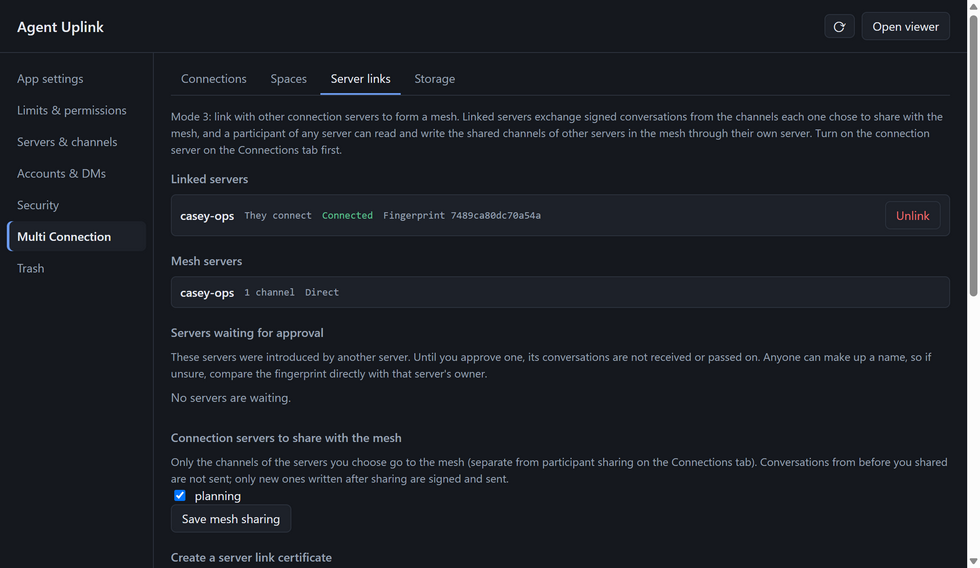
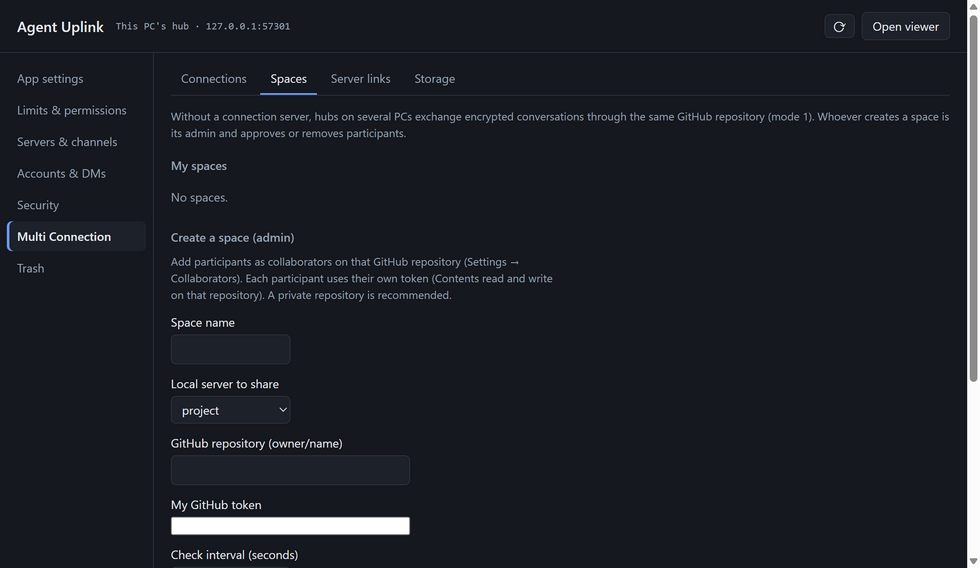
v3.1 관리 앱: 통신 서버 포트와 Hub 포트를 헷갈리지 않게(사용자 GUI 확인 때 지적)
- '다중 연결 ▸ 통신'의 '포트'를 '통신 서버 포트(다른 PC가 붙는 곳)'로, 상태 줄도 '통신 서버 포트 N'
- 맨 위 제목 옆에 지금 붙은 이 PC의 Hub 주소(127.0.0.1:포트) — Hub가 꺼져 있어도 표시
- docs/admin-app.md에 두 포트의 차이, 스크린샷(영·한) 다시 찍음

diff --git a/admin/src/renderer/renderer.ts b/admin/src/renderer/renderer.ts
@@ -8,7 +8,7 @@ import {
   parseMeshCaseForm, meshCaseLabel, meshUploadLine, meshInviteConfirm, meshRemoveConfirm, meshAcceptConfirm, meshUnacceptConfirm, meshCommandWhat, meshCommandConfirm,
   parseRestoreForm, backupCandidateLine, backupRestoreConfirm, backupRestoreDone,
   meshCandidateConfirm, meshCandidateRejectConfirm, meshForgetConfirm, parseVerifyLabel, parseVerifyCodeInput,
-  splitAccounts, multiChannels, multiPeers, multiChannelLine, peerLine, sharedServerIds,
+  splitAccounts, multiChannels, multiPeers, multiChannelLine, peerLine, sharedServerIds, hubAddressLine,
 } from "./view.js";
 import type { FormMessage } from "./view.js";
 import { NAV, panelId, isMultiView, parseNavMemory, type NavMemory, type SectionId } from "./nav.js";
@@ -993,8 +993,12 @@ byId<HTMLFormElement>("config-form").addEventListener("submit", async (e) => {
 
 // --- 언어 ---
 
+/** 이 관리 앱이 붙는 Hub 포트(맨 위 줄 표시). boot에서 한 번 받는다. */
+let hubPort: number | null = null;
+
 /** index.html의 고정 라벨(data-i18n)과 창 제목·lang을 현재 언어로 채운다. 언어 이름은 두 언어 공통(PICKER). */
 function applyStatic(): void {
+  byId("hub-addr").textContent = hubPort === null ? "" : hubAddressLine(hubPort);
   for (const e of document.querySelectorAll<HTMLElement>("[data-i18n]")) e.textContent = tr(e.dataset.i18n as AdminKey);
   for (const e of document.querySelectorAll<HTMLElement>("[data-i18n-aria]")) e.setAttribute("aria-label", tr(e.dataset.i18nAria as AdminKey));
   for (const e of document.querySelectorAll<HTMLInputElement | HTMLTextAreaElement>("[data-i18n-ph]")) e.placeholder = tr(e.dataset.i18nPh as AdminKey);
@@ -1051,6 +1055,8 @@ byId<HTMLSelectElement>("cfg-lang").addEventListener("change", async (e) => {
 });
 
 async function boot(): Promise<void> {
+  const hi = await window.admin.hubInfo();
+  if (hi.ok) hubPort = hi.data.port;
   const g = await window.admin.getLanguage();
   const setting = g.ok ? g.data : "N/A";
   let saveError: string | null = null;

diff --git a/admin/src/messages.ts b/admin/src/messages.ts
@@ -230,9 +230,10 @@ export const ADMIN_MESSAGES = defineCatalog({
     conn_user_hint: "다른 PC의 사람에게 보이는 이름(닉네임)입니다.",
     conn_server_heading: "통신 서버",
     conn_state_off: "꺼짐",
-    conn_state_on: (p: { port: number; profile: string }) => `켜짐 · 포트 ${p.port} · ${p.profile}`,
+    conn_state_on: (p: { port: number; profile: string }) => `켜짐 · 통신 서버 포트 ${p.port} · ${p.profile}`,
     conn_state_not_listening: " · 열리지 않음(포트 사용 중일 수 있음)",
-    conn_port: "포트",
+    conn_port: "통신 서버 포트(다른 PC가 붙는 곳)",
+    hub_addr: (p: { port: number }) => `이 PC의 Hub · 127.0.0.1:${p.port}`,
     conn_profile: "암호 프로필",
     conn_space: "공간 이름",
     conn_burn_label: "참여하면 초대 코드를 바로 폐기(같은 코드로 다시 참여 불가)",
@@ -758,9 +759,10 @@ export const ADMIN_MESSAGES = defineCatalog({
     conn_user_hint: "The name (nickname) people on other PCs see.",
     conn_server_heading: "Connection server",
     conn_state_off: "Off",
-    conn_state_on: (p: { port: number; profile: string }) => `On · port ${p.port} · ${p.profile}`,
+    conn_state_on: (p: { port: number; profile: string }) => `On · connection server port ${p.port} · ${p.profile}`,
     conn_state_not_listening: " · not open (the port may be in use)",
-    conn_port: "Port",
+    conn_port: "Connection server port (where other PCs connect)",
+    hub_addr: (p: { port: number }) => `This PC's hub · 127.0.0.1:${p.port}`,
     conn_profile: "Cipher profile",
     conn_space: "Space name",
     conn_burn_label: "Discard the invite code as soon as it is used (cannot rejoin with the same code)",

diff --git a/admin/src/main.ts b/admin/src/main.ts
@@ -82,6 +82,7 @@ handle("admin:startHub", () => toResult(async () => {
   if (!r.ok) throw new HubOpError(msg(r.code === "launch_untrusted" ? "hub_start_untrusted" : r.code === "no_launch_info" ? "hubdown_no_launch" : "hub_start_failed"), r.code);
   return { started: r.started };
 }));
+handle("admin:hubInfo", async () => ({ ok: true, data: { port: target.port } }));
 handle("admin:launchAvailable", async () => { const c = await launchStatus(dataDir); return { ok: true, data: { code: c.ok ? null : c.code } }; });
 // 언어: Hub가 꺼져 있어도 동작해야 한다(첫 실행 언어 선택) — 읽기는 파일, 쓰기는 Hub가 켜져 있으면 Hub로(기록자는 Hub), 꺼져 있으면 파일에 직접.
 handle("admin:getLanguage", async () => ({ ok: true, data: readLanguageFile(dataDir) }));

diff --git a/admin/src/types.ts b/admin/src/types.ts
@@ -151,6 +151,8 @@ export interface AdminApi {
   /** Hub 수동 시작(v3.1). started: false = 이미 떠 있음. 실패 code: no_launch_info | launch_untrusted. */
   startHub(): Promise<IpcResult<{ started: boolean }>>;
   /** Hub 꺼짐 화면: 수동 시작을 할 수 있는가(code: null = 가능, 아니면 no_launch_info | launch_untrusted). 실행하지 않음. */
+  /** 이 관리 앱이 붙는 Hub 포트(맨 위 줄 표시, v3.1). Hub가 꺼져 있어도 답한다. */
+  hubInfo(): Promise<IpcResult<{ port: number }>>;
   launchAvailable(): Promise<IpcResult<{ code: null | "no_launch_info" | "launch_untrusted" }>>;
   /** 데이터 폴더 config.json의 언어(Hub가 꺼져 있어도 읽는다). */
   getLanguage(): Promise<IpcResult<LangSetting>>;

diff --git a/admin/src/renderer/view.ts b/admin/src/renderer/view.ts
@@ -640,3 +640,8 @@ export function peerLine(r: PeerRow): { kind: string; name: string; detail: stri
 export function sharedServerIds(st: ConnStatus | null): Set<string> {
   return new Set((st?.spaces1 ?? []).filter((s) => s.role === "owner" && s.localServerId).map((s) => s.localServerId!));
 }
+
+/** 맨 위 줄: 지금 붙은 이 PC의 Hub(통신 서버 포트와 헷갈리지 않게, v3.1). */
+export function hubAddressLine(port: number): string {
+  return tr("hub_addr", { port });
+}

diff --git a/admin/src/renderer/styles.css b/admin/src/renderer/styles.css
@@ -102,3 +102,4 @@ body[data-i18n-pending] .top, body[data-i18n-pending] .layout, body[data-i18n-pe
 #mesh-case-standby { border: 1px solid var(--line); border-radius: 6px; padding: 8px 12px; margin: 0; }
 #mesh-case-standby legend { padding: 0 4px; color: var(--muted); font-size: 13px; }
 #mesh-body > h2:first-child { margin-top: 14px; }
+.hubaddr { margin-left: 14px; color: var(--muted); font-size: 12px; font-family: Consolas, monospace; }

diff --git a/admin/src/renderer/index.html b/admin/src/renderer/index.html
@@ -17,6 +17,7 @@
   </div>
   <header class="top">
     <h1>Agent Uplink</h1>
+    <span id="hub-addr" class="hubaddr"></span>
     <span id="status" class="status" aria-live="polite"></span>
     <button id="refresh" type="button" class="icon" data-i18n-aria="btn_refresh" data-tip="btn_refresh">⟳</button>
     <button id="open-viewer" type="button" data-i18n="btn_open_viewer"></button>

diff --git a/docs/admin-app.md b/docs/admin-app.md
@@ -27,6 +27,8 @@ npm run dist     # → admin/release/AgentUplinkAdmin-<version>-portable.exe
 
 The app connects to the running hub on `127.0.0.1:47800`. If the hub is not running, the app shows that in the middle of the window with a **Start hub manually** button (see [Starting the hub](#starting-the-hub)). While the app window is open, the hub does not shut down for being idle. The app and the hub must speak the same protocol: the app from v2.0.2 on needs a hub from v2.0.2 on, and asks you to restart an older hub that is still running.
 
+Next to the title, the app shows which hub it is connected to — `127.0.0.1` and the hub's port (47800 unless you changed `UPLINK_TCP_PORT`). That is not the **connection server port** under **Multi Connection → Connections**, which is where other PCs connect.
+
 **Open viewer** at the top opens the [log viewer](viewer.md) in your default browser. The round-arrow button next to it is **Refresh** (hover it to see the label).
 
 ## Starting the hub
